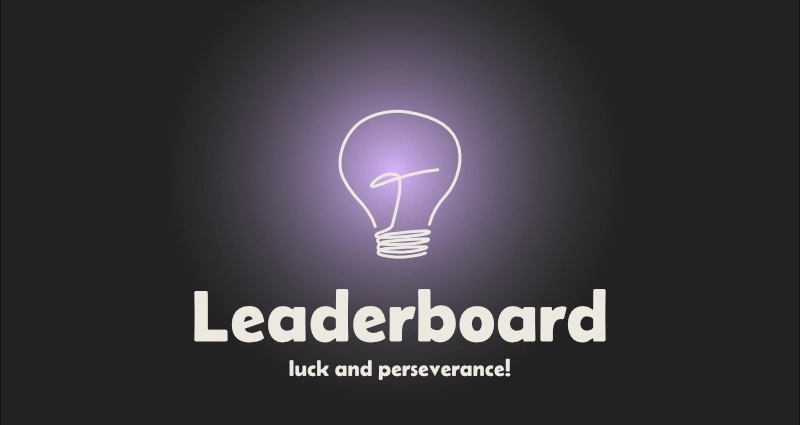
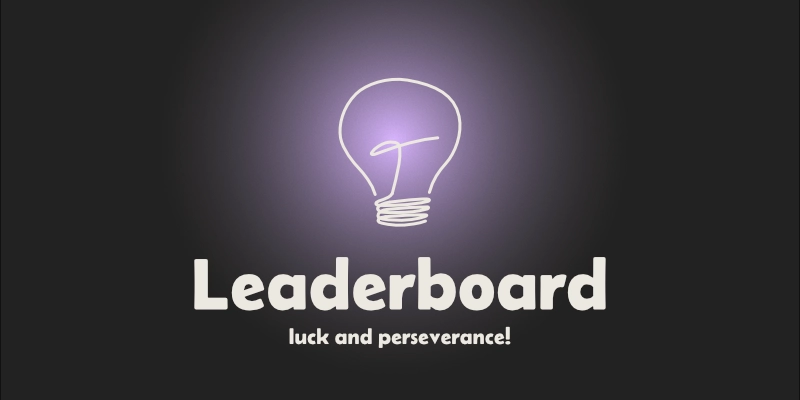
change metadata image dims

Changed region(s): [[0.2188, 0.0, 0.7812, 0.9], [0.2188, 0.63, 0.2812, 0.69]]

diff --git a/src/app.html b/src/app.html
@@ -26,7 +26,7 @@
     <meta property="og:image" content="https://tinovation.org/website/meta/home.webp" />
     <meta property="og:image:type" content="image/png" />
     <meta property="og:image:width" content="800" />
-    <meta property="og:image:height" content="425" />
+    <meta property="og:image:height" content="400" />
 
     <meta property="twitter:card" content="summary_large_image" />
     <meta property="twitter:title" content="Tinovation" />
